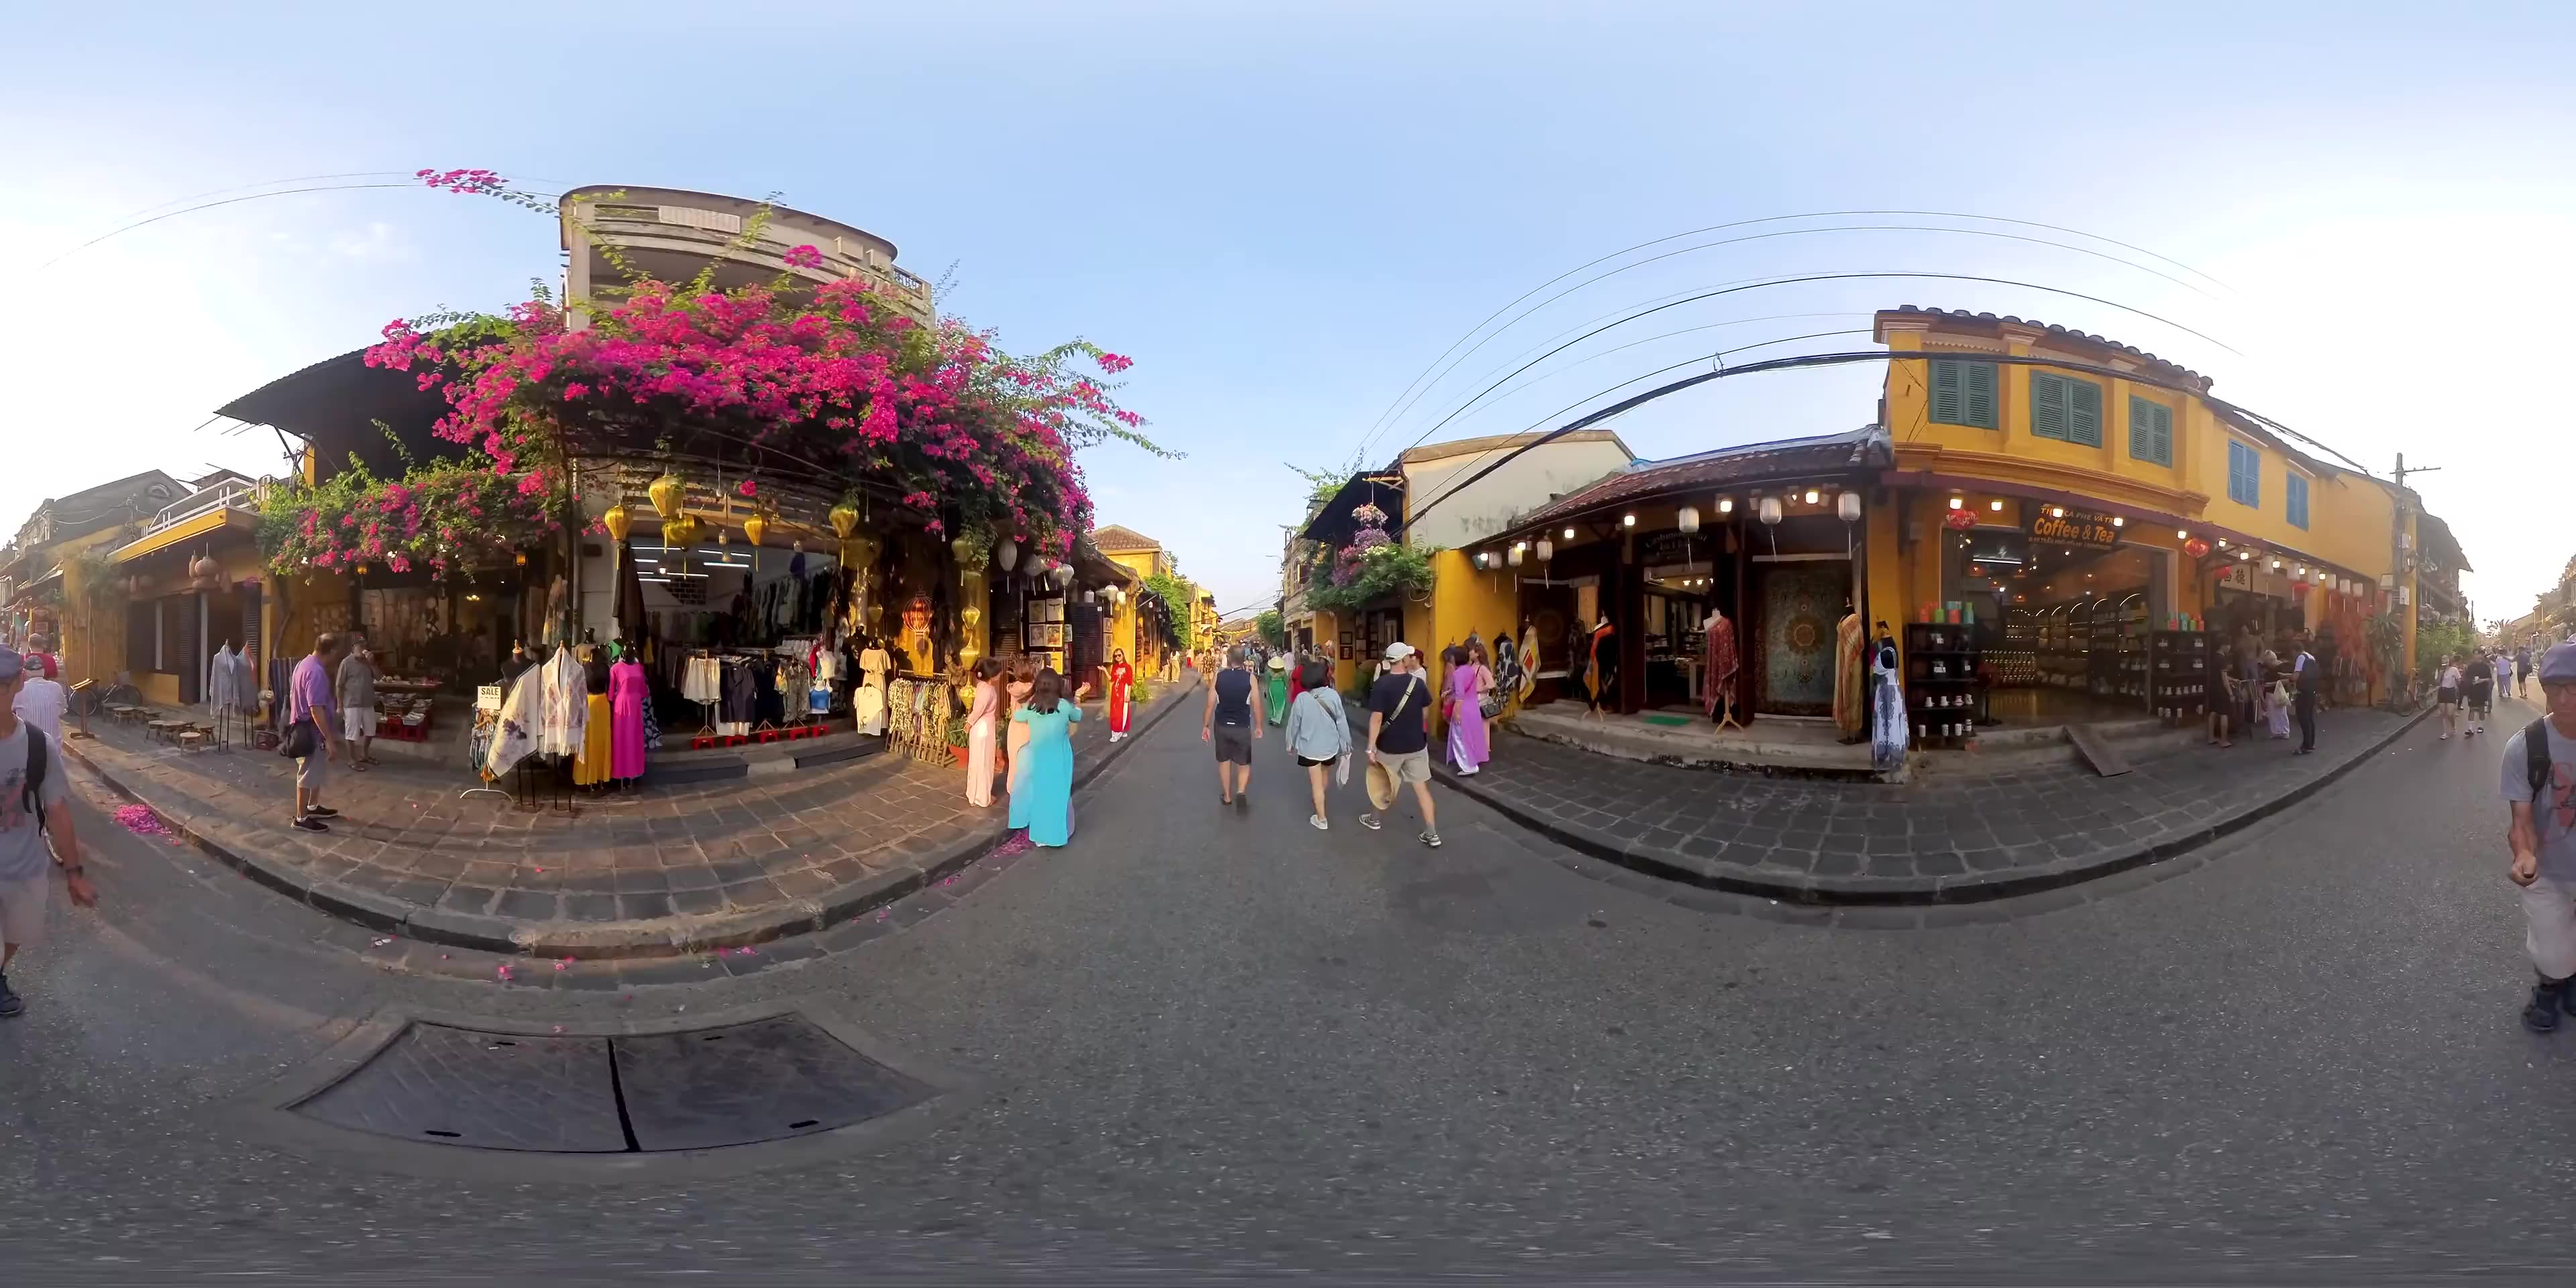
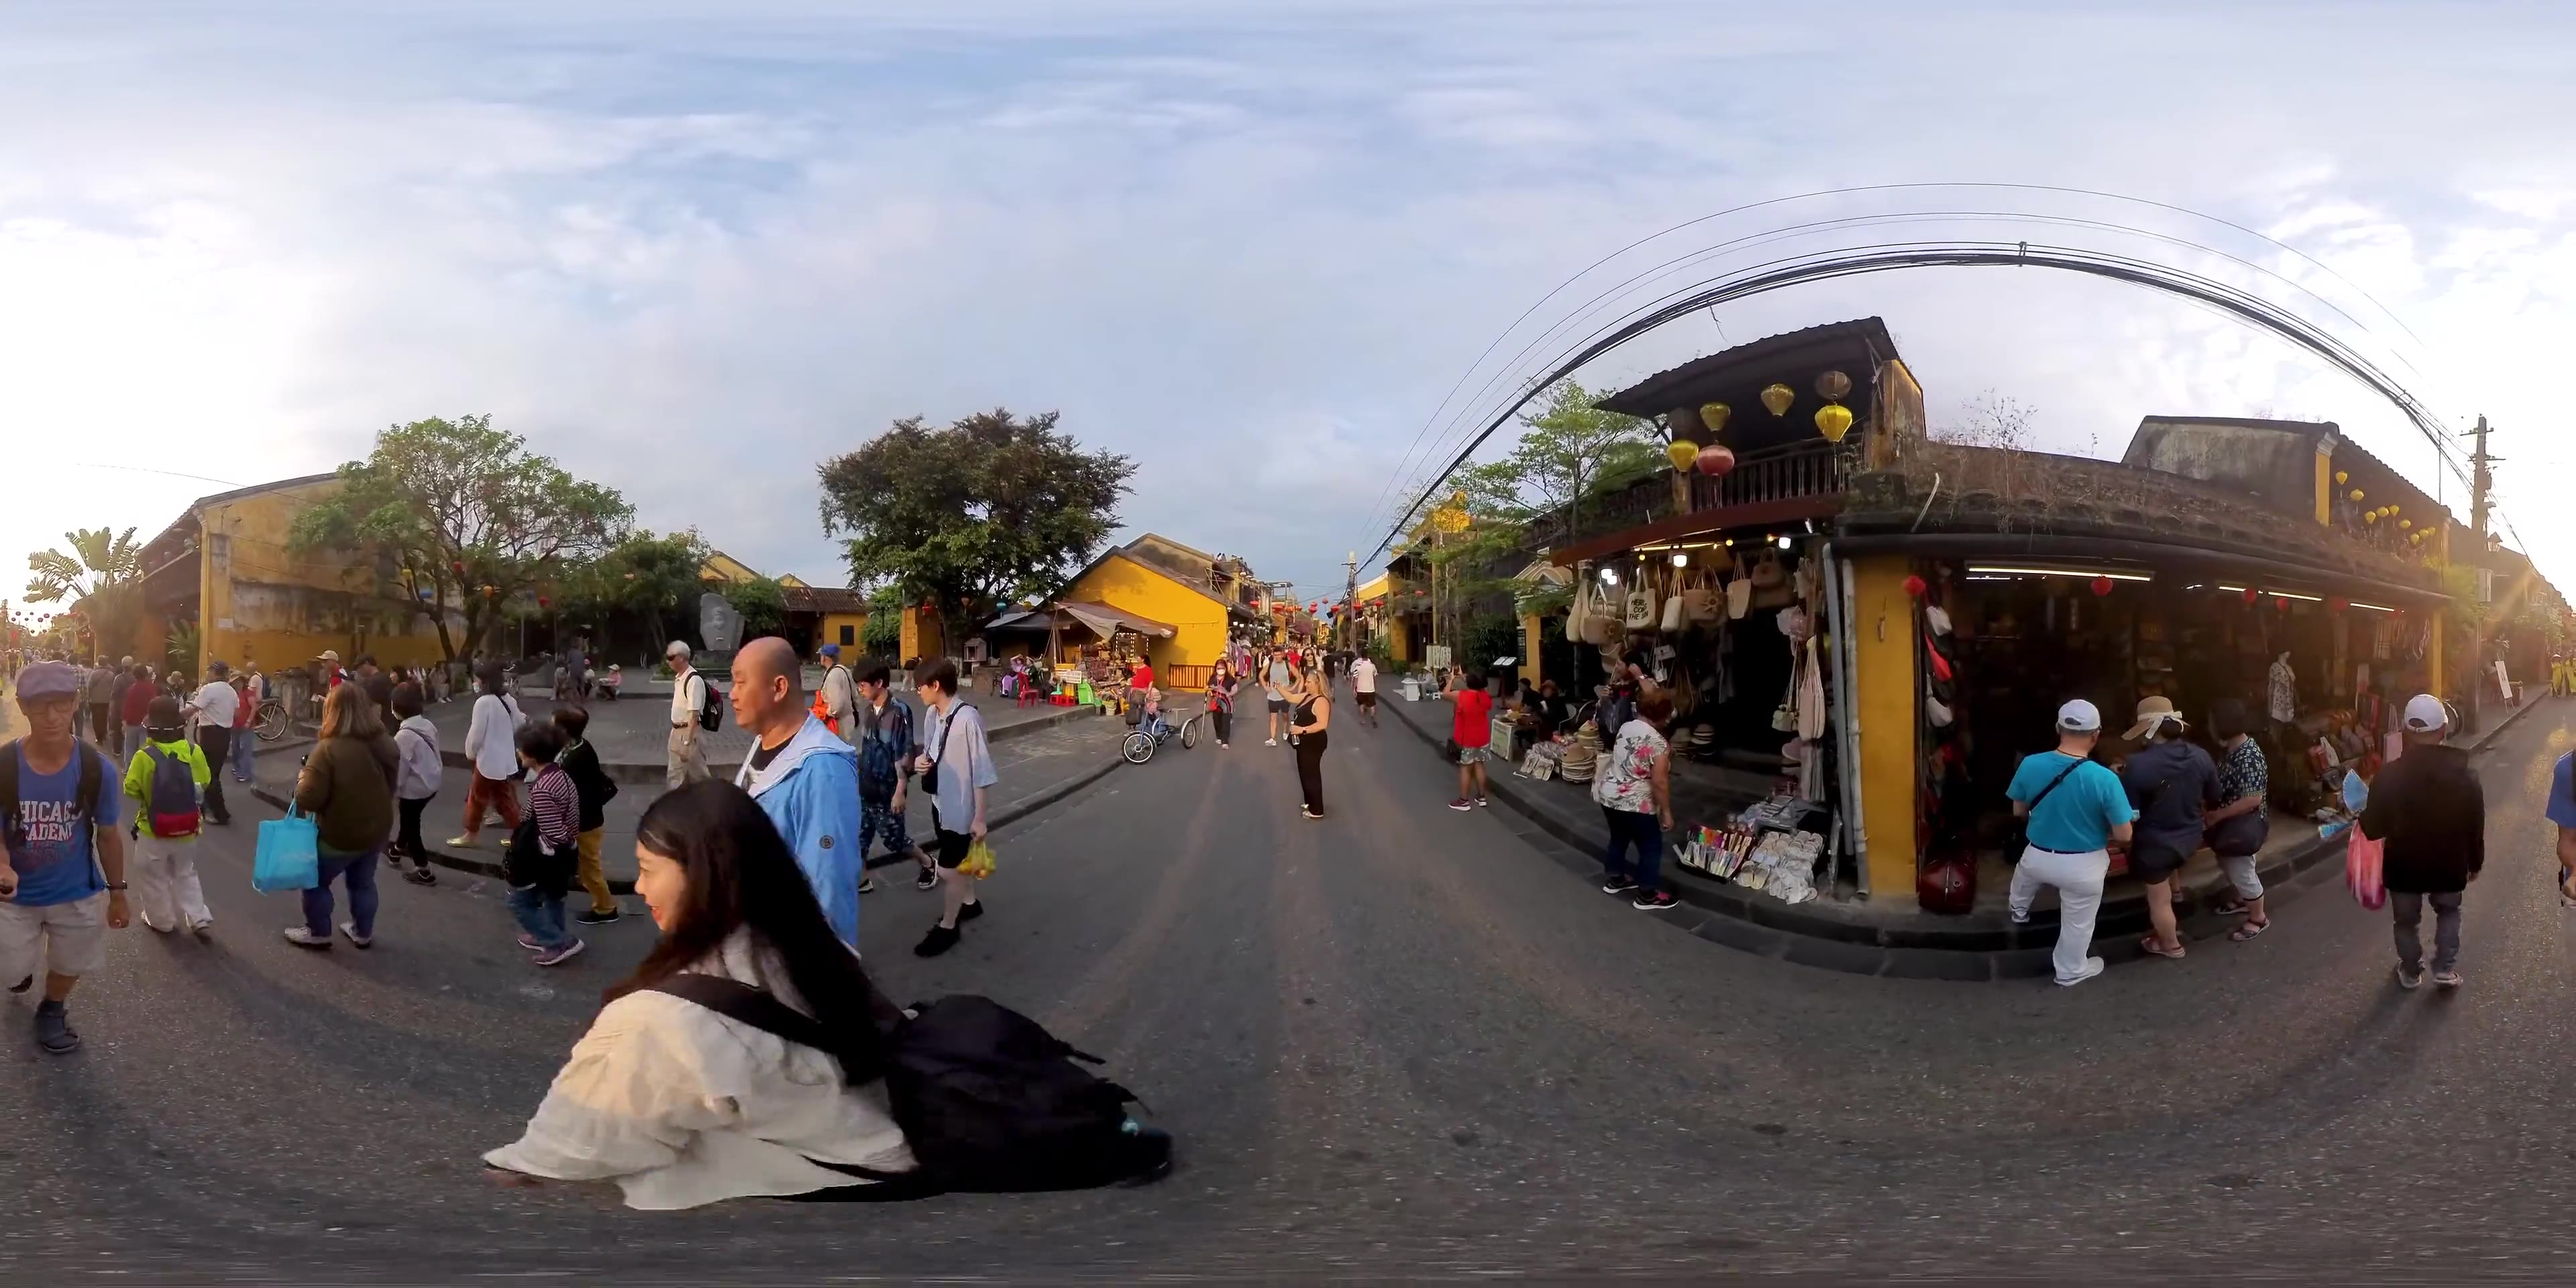
Default route starts after the source's fade-to-black (280.6 s): one truly cut-free walk into the hall; ?full=1 keeps the 10-min version; start-of-street boundary; poster from new start

diff --git a/walk.js b/walk.js
@@ -28,7 +28,7 @@ const aWant = () => Math.min(Math.max(0, AOFF + pos()), 639);
 function aInit() { if (aud.node) return; try { const C = window.AudioContext || window.webkitAudioContext; const ctx = new C(); const src = ctx.createMediaElementSource(audio); aud.node = ctx.createGain(); aud.node.gain.value = 0; src.connect(aud.node).connect(ctx.destination); aud.ctx = ctx; ctx.resume?.(); } catch (e) { aud.node = null; } }
 function aTick(dt) { if (!soundOn || audio.paused) return; const drift = audio.currentTime - aWant(); if (!aud.res && Math.abs(drift) > (Math.abs(rate) > 0.6 ? 6 : 30)) { aud.res = true; aud.goal = 0; } if (aud.res && aud.g < 0.02) { audio.currentTime = aWant(); aud.res = false; aud.goal = AVOL; } aud.g += (aud.goal - aud.g) * Math.min(1, dt * (aud.goal < aud.g ? 4 : 1.6)); if (aud.node) { aud.node.gain.value = aud.g; if (aud.ctx.state === 'suspended') aud.ctx.resume(); } else audio.volume = Math.min(1, aud.g); }
 const mkTex = v => { const t = new THREE.VideoTexture(v); t.colorSpace = THREE.SRGBColorSpace; t.minFilter = THREE.LinearFilter; t.magFilter = THREE.LinearFilter; t.generateMipmaps = false; t.anisotropy = renderer.capabilities.getMaxAnisotropy(); return t; };
-let D = 0, rate = IDLE, target = IDLE, swapping = false, soundOn = false, frames = 0, lastAdv = performance.now(), quality = '4k', chunkSwaps = 0;
+let LO = 0, D = 0, rate = IDLE, target = IDLE, swapping = false, soundOn = false, frames = 0, lastAdv = performance.now(), quality = '4k', chunkSwaps = 0;
 // A chunked track: the route split into L-second files, played back to back with the next chunk preloaded in a 2nd element.
 class Track {
   constructor(urls, L, D) { this.urls = urls; this.L = L; this.D = D; this.els = [mkVideo(), mkVideo()]; this.tex = this.els.map(mkTex); this.ci = -1; this.k = 0; this.loaded = [-1, -1];
@@ -82,7 +82,7 @@ addEventListener('keydown', e => { if ((e.code === 'KeyS' || e.code === 'ArrowDo
 
 (async () => {
   try {
-    const r = await fetch(BASE + 'walk.json'); if (!r.ok) throw new Error('walk.json ' + r.status); const j = await r.json(); D = j.duration;
+    const r = await fetch(BASE + 'walk.json'); if (!r.ok) throw new Error('walk.json ' + r.status); const j = await r.json(); LO = params.has('full') ? 0 : (j.lo || 0) /* the source has an editorial fade at 277-280 s: the default route starts after it so the walk has no cut */; D = j.duration;
     const probe = document.createElement('video'), ua = navigator.userAgent, isSafari = /Safari/.test(ua) && !/Chrome|CriOS|Chromium|Android|FxiOS/.test(ua);
     const hevcOK = isSafari && probe.canPlayType('video/mp4; codecs="hvc1.1.6.L153.B0"') !== '';
     const c = navigator.connection || {}, weak = c.saveData || (c.downlink && c.downlink < 2.5) || (navigator.deviceMemory && navigator.deviceMemory <= 2);
@@ -102,7 +102,7 @@ addEventListener('keydown', e => { if ((e.code === 'KeyS' || e.code === 'ArrowDo
     audio.src = BASE + j.audio;
     const prog = setInterval(() => { try { const v = fwdT.el, b = v.buffered.length ? v.buffered.end(0) - v.currentTime : 0; $('fill').style.width = Math.min(100, 15 + b / 2 * 85) + '%'; } catch (e) {} }, 200);
     $('loadmsg').textContent = 'Loading the street in ' + (quality === '2k5' ? '2.5K' : '4K') + '…';
-    await fwdT.seek(+(params.get('t') || j.start || 0)); fwdT.el.playbackRate = IDLE;
+    await fwdT.seek(Math.max(LO, +(params.get('t') || 0))); fwdT.el.playbackRate = IDLE;
     if (fwdT.el.error) throw new Error('video failed to load (' + (fwdT.el.error.code) + ')');
     clearInterval(prog); $('loader').hidden = true; document.body.classList.remove('loading'); $('hint').classList.add('fade'); window.__state.loaded = true; setSpin(true);
     if (!(await playSafe(fwdT.el))) showTap();
@@ -125,15 +125,16 @@ addEventListener('keydown', e => { if ((e.code === 'KeyS' || e.code === 'ArrowDo
       const idle = Math.abs(target) < 0.5;
       // direction: walking back uses the reversed track; idle keeps the current track (and ping-pongs at the ends)
       let want = rate < -0.05 ? revT : rate > 0.3 ? fwdT : active; if (idle) want = (pos() >= D - 0.5) ? active : fwdT;
-      if (want !== active && !(want === revT && pos() <= 0.2) && !(want === fwdT && pos() >= D - 0.2)) switchTo(want);
+      if (want !== active && !(want === revT && pos() <= LO + 0.2) && !(want === fwdT && pos() >= D - 0.2)) switchTo(want);
+      else if (active === revT && pos() <= LO + 0.1) { if (!active.el.paused) active.el.pause(); $('nodestatus').textContent = 'Start of the street · tap ↺ Turn around'; $('turnL').classList.add('pulse'); }
       else { const v = active.el, pr = Math.max(0.0625, Math.min(3, Math.abs(Math.abs(rate - target) < 0.1 ? target : rate))); if (Math.abs(v.playbackRate - pr) > 0.1 || (pr === Math.abs(target) && v.playbackRate !== pr)) v.playbackRate = pr; /* few rate changes: each one can cost a pipeline flush on some engines */ active.tick(pr);
-        { const ae = pos() >= D - 0.5, as = pos() <= 0.5, st = $('nodestatus'); if ((ae && view.face > 0) || (as && view.face < 0)) { st.textContent = (ae ? 'Inside the hall — end of the walk' : 'Start of the street') + ' · tap ↺ Turn around'; $('turnL').classList.add('pulse'); } else { $('turnL').classList.remove('pulse'); if (ae || as) st.textContent = 'Turned around · push up / W to walk'; else if (/Turn(ed)? around/.test(st.textContent)) st.textContent = ''; } } }
+        { const ae = pos() >= D - 0.5, as = pos() <= LO + 0.5, st = $('nodestatus'); if ((ae && view.face > 0) || (as && view.face < 0)) { st.textContent = (ae ? 'Inside the hall — end of the walk' : 'Start of the street') + ' · tap ↺ Turn around'; $('turnL').classList.add('pulse'); } else { $('turnL').classList.remove('pulse'); if (ae || as) st.textContent = 'Turned around · push up / W to walk'; else if (/Turn(ed)? around/.test(st.textContent)) st.textContent = ''; } } }
     }
     view.sy += (view.yaw - view.sy) * 0.18; view.sp += (view.pitch - view.sp) * 0.18; { const tt = view.face > 0 ? 0 : Math.PI - TURN_OFF(); view.turn += (tt - view.turn) * Math.min(1, dt * 2.2); } camera.quaternion.setFromEuler(new THREE.Euler(view.sp + 0.15 * view.turn / Math.PI /* facing back: lift gaze a little so the camera carrier sits below frame */, view.sy + view.turn, 0, 'YXZ'));
     if (view.gyro) camera.quaternion.premultiply(new THREE.Quaternion().setFromAxisAngle(new THREE.Vector3(0, 1, 0), view.gyroYaw0)).multiply(view.gyro);
     const right = new THREE.Vector3(1, 0, 0).applyQuaternion(camera.quaternion); right.y = 0; right.normalize(); camera.position.copy(right.multiplyScalar(view.lat));
-    const adv = now - lastAdv < 1500 || pos() >= D - 0.5 || pos() <= 0.5; $('live').textContent = adv ? (Math.abs(rate) > 0.5 ? (rate > 0 ? '● walking' : '● walking · turned around') : '● LIVE') + (soundOn ? '' : ' · tap for sound') : '○ loading';
-    $('live').className = adv ? 'on' : ''; if (D) $('sfill').style.width = (pos() / D * 100) + '%';
+    const edge = pos() >= D - 0.5 || pos() <= LO + 0.5, adv = now - lastAdv < 1500 || edge; $('live').textContent = adv ? (Math.abs(rate) > 0.5 && !edge ? (rate > 0 ? '● walking' : '● walking · turned around') : '● LIVE') + (soundOn ? '' : ' · tap for sound') : '○ loading';
+    $('live').className = adv ? 'on' : ''; if (D) $('sfill').style.width = Math.max(0, (pos() - LO) / (D - LO) * 100) + '%';
     renderer.render(scene, camera); });
   setInterval(() => { if (!window.__state.loaded || swapping) return; const v = active.el; if (!v.paused && !active.atEnd() && performance.now() - lastAdv > 2500 && !active.nudged) { active.nudged = true; v.currentTime = v.currentTime + 0.02; playSafe(v); lastAdv = performance.now(); return; } if (!v.paused && !active.atEnd() && performance.now() - lastAdv > 6000) { active.nudged = false; setSpin(true); $('nodestatus').textContent = 'Reconnecting…'; const p = pos(); active.loaded = [-1, -1]; active.seek(active === fwdT ? p : D - p).then(() => playSafe(active.el)); lastAdv = performance.now(); }
     else if (v.paused && !active.atEnd() && $('tapstart').hidden && !soundOn) showTap(); }, 1000);

diff --git a/README.md b/README.md
@@ -3,7 +3,9 @@
 **Live:** https://khoadang87.github.io/hoian-walk/
 
 ## Current default: one continuous 10-minute walk (`walk.js`)
-A real 360° walking video, played as you walk. You start on Trần Phú street in Hội An old town and walk up to 10 minutes through the crowd into an assembly hall (likely the Fujian/Phúc Kiến hall at 46 Trần Phú). There are no arrows, no scene switches and no cuts. Source and licences are in CREDITS.md.
+A real 360° walking video, played as you walk. You start on Trần Phú street in Hội An old town and walk about 5 minutes (at normal pace) through the crowd into an assembly hall (likely the Fujian/Phúc Kiến hall at 46 Trần Phú). There are no arrows, no scene switches and no cuts.
+
+**Route change (Oct 28, 3:30 AM):** the earlier 10-minute route turned out to contain an editorial fade-to-black at 4:37–4:40. It sits between the riverside part and Trần Phú street, and a scene-cut detector does not catch fades. The default route now starts just after the fade, at 280.6 s of the encoded footage (source 20:25.6), and runs to 600 s (source 25:45). That is the longest fade-free stretch that includes entering the building. The full 10 minutes, fade included, is still at `?full=1`. Source and licences are in CREDITS.md.
 
 **Controls**
 - **Phone:** push the stick up to walk; push it further for a jog. Pull it down to turn around. Push it sideways to sway left or right (up to 0.6 m). Drag or turn the phone to look around.
@@ -18,7 +20,7 @@ A real 360° walking video, played as you walk. You start on Trần Phú street 
 - **Parallax:** swaying sideways moves the camera over a simple ground-plane proxy (the lower half of the sphere flattened onto a floor 1.6 m below). This is approximate, not real depth.
 - **Sound:** the real street sound from the same video, kept within a few seconds of where you are. When it drifts too far, it fades out briefly and resyncs. It fades in on the first tap, and pauses when the tab is hidden.
 
-**URL options:** `?t=<seconds>` start position, `?idle=<rate>`, `?ry=<rad>` sphere yaw, `?scene=spots` (older 360° spot tour), `?scene=game` (older 3D game street).
+**URL options:** `?full=1` (10-min route including the fade), `?t=<seconds>` start position, `?idle=<rate>`, `?ry=<rad>` sphere yaw, `?scene=spots` (older 360° spot tour), `?scene=game` (older 3D game street).
 
 **Run locally:** `python3 -m http.server 8090`, then open http://localhost:8090/.
 

diff --git a/CREDITS.md b/CREDITS.md
@@ -98,6 +98,7 @@ These are real frames from the same YouTube video's 2160p stream (© the video o
 ## Continuous walk (default scene, `walk.js`)
 - **Footage and street audio:** YouTube video https://www.youtube.com/watch?v=C26CAyJkt4g (360° 4K Hội An walk), © the uploader, published with the project owner's approval.
   - The route is 600 s (10 min), from 15:45 to 25:45 of the source: Trần Phú street (past the pharmacy at 83 Trần Phú) into an assembly hall, likely the Fujian (Phúc Kiến) hall at 46 Trần Phú.
+  - **Default route:** 280.6–600 s of the encoded footage (source 20:25.6–25:45, about 5.3 min). The first 280 s ends in an editorial fade-to-black in the source, so it is only reachable with `?full=1`. A fresh brightness scan found no other fade in the default range; the source's next fade is at 25:45, right at the route end.
   - The ambience is 15:00–25:40 of the same video, so the sound you hear was recorded on this street.
 - **Real vs generated:**
   - All imagery and sound are real recordings. There is no generated, interpolated or AI-filled content in this scene.
